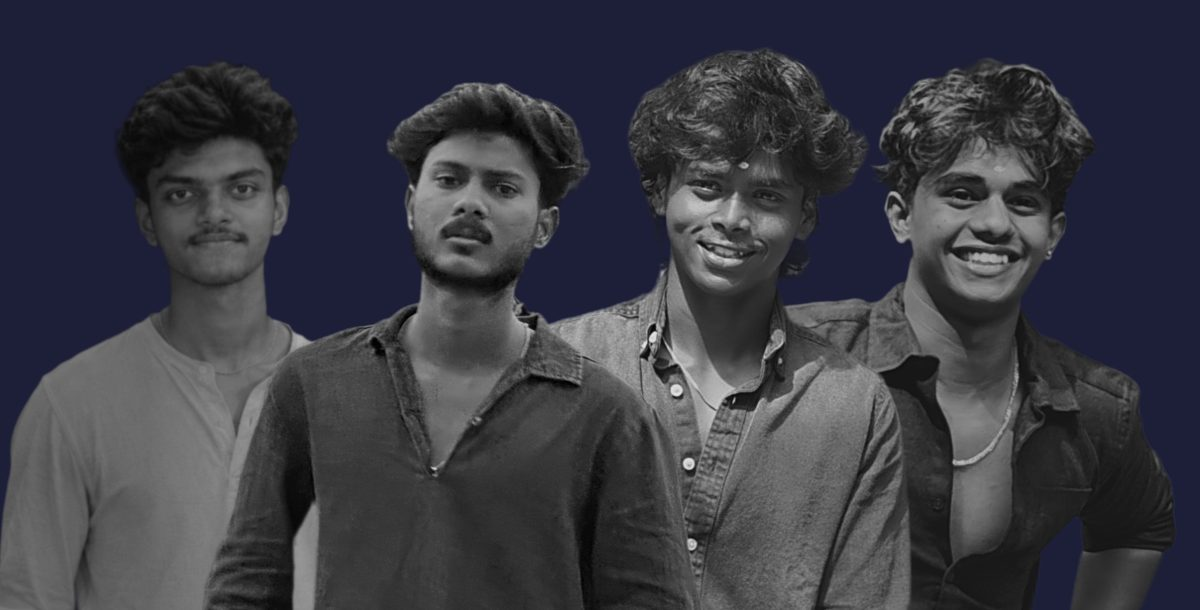
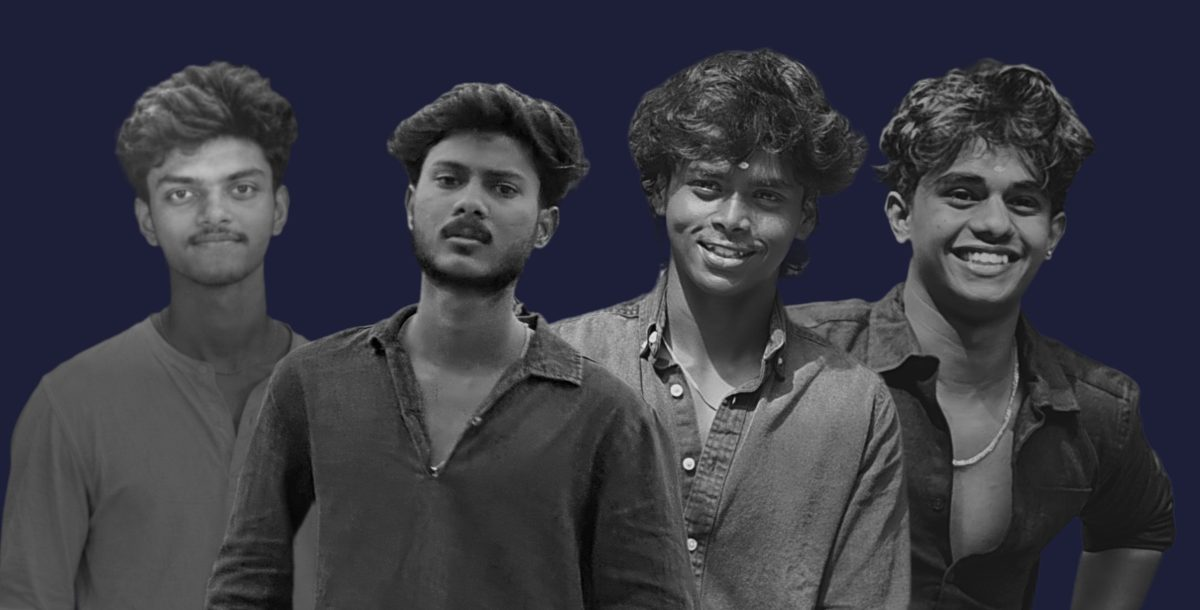
Light Shyan's photo with sun from the top left

Changed region(s): [[0.1233, 0.4984, 0.2775, 1.0], [0.0925, 0.0934, 0.2467, 0.4361], [0.2467, 0.8098, 0.2775, 1.0]]

diff --git a/scripts/team_photo.py b/scripts/team_photo.py
@@ -12,9 +12,11 @@ The originals in assets/team are only read, never changed.
 """
 
 import math
+
+import numpy as np
 from pathlib import Path
 
-from PIL import Image, ImageChops, ImageFilter, ImageOps
+from PIL import Image, ImageFilter, ImageOps
 import pillow_heif
 from rembg import new_session, remove
 
@@ -29,8 +31,8 @@ DEEP = (29, 31, 56)
 # the chin and the face centre. Faces are scaled so eye-to-chin matches,
 # times scale where a face still reads smaller than the others.
 # x: face centre in the row; drop: how far the eyes sit below EYE_Y
-# (negative is higher); rough: a cleanly lit photo, given plainer, uneven
-# light so it looks as casual as the others.
+# (negative is higher); rough: a cleanly lit studio photo, given plainer,
+# natural light (sun from the top left) so it looks as casual as the others.
 PEOPLE = {
     "shyan": dict(file="shyan-3.jpg", eye=372, chin=498, cx=563, scale=1.0, x=330, drop=0, rough=True),
     "suhail": dict(file="suhail.heic", eye=1130, chin=1250, cx=650, scale=1.06, x=590, drop=-6),
@@ -95,15 +97,22 @@ S_CURVE = [round(255 * (0.5 + 0.5 * math.tanh(1.8 * (g / 255 - 0.5)) / math.tanh
 
 
 def roughen(grey, alpha, box):
-    """Plainer light: flatter and a little dimmer, light falling off across
-    the face from one side, and slightly soft, like an ordinary phone photo."""
+    """Natural light: flatter and a little dimmer than the studio original,
+    slightly soft, with sun falling on him from the top left: the hair and
+    that side of the face catch it, the far side and lower body fall into
+    shade."""
     mean, std = stats(grey, alpha, box)
     grey = grey.point(lambda g: max(0, min(255, round(mean - 10 + (g - mean) * 0.78))))
-    # Light from the right: across the face the left side drops about a quarter.
-    left, right = box[0], box[2]
-    row = Image.new("L", (grey.width, 1))
-    row.putdata([round(255 * (0.74 + 0.26 * min(1, max(0, (x - left) / (right - left))))) for x in range(grey.width)])
-    grey = ImageChops.multiply(grey, row.resize(grey.size))
+    w = box[2] - box[0]
+    # The sun sits above and to the left of the head.
+    sx, sy = box[0] + 0.05 * w, box[1] - 0.25 * w
+    reach = 1.9 * w
+    yy, xx = np.mgrid[0 : grey.height, 0 : grey.width]
+    near = np.clip(1 - np.hypot(xx - sx, yy - sy) / reach, 0, 1)
+    g = np.asarray(grey, dtype=np.float32)
+    # Shade away from the sun, a warm-white lift where it lands.
+    g = g * (0.6 + 0.4 * near) + 190 * near**1.6 * (g / 255) ** 0.5
+    grey = Image.fromarray(np.clip(g, 0, 255).astype(np.uint8))
     return grey.filter(ImageFilter.GaussianBlur(0.9))
 
 
